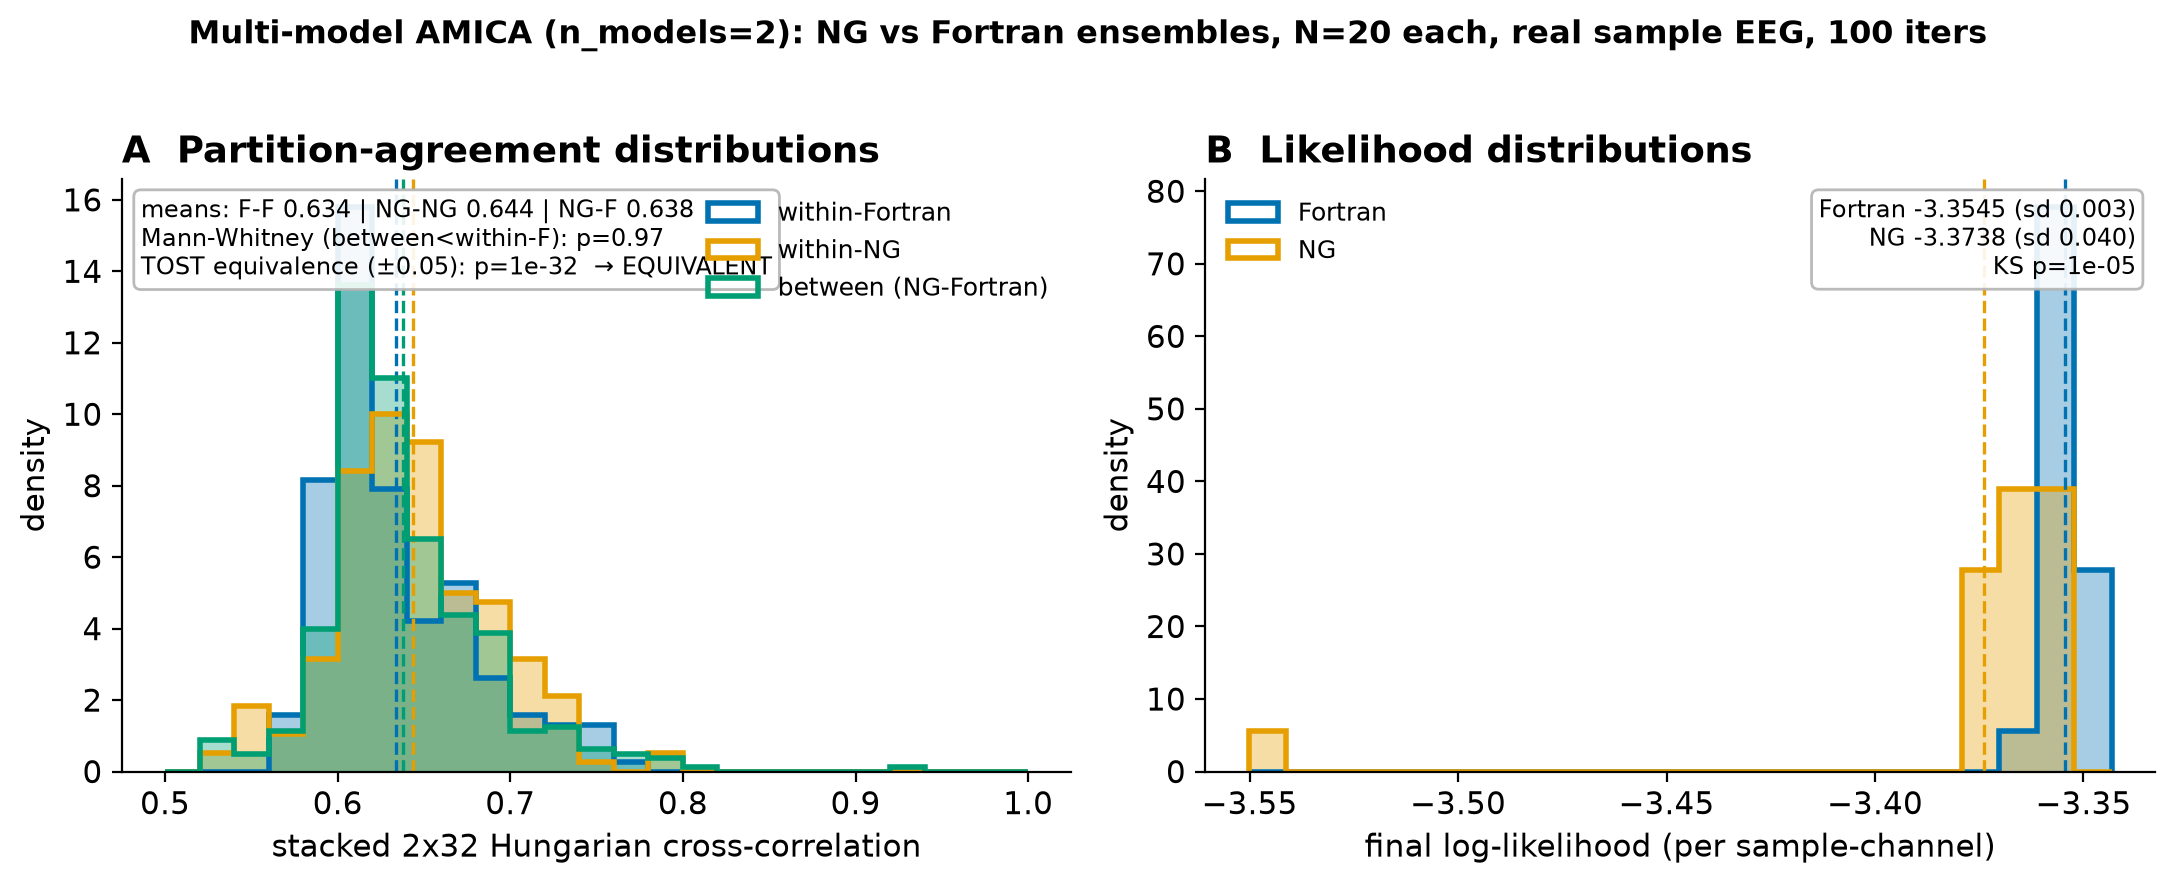
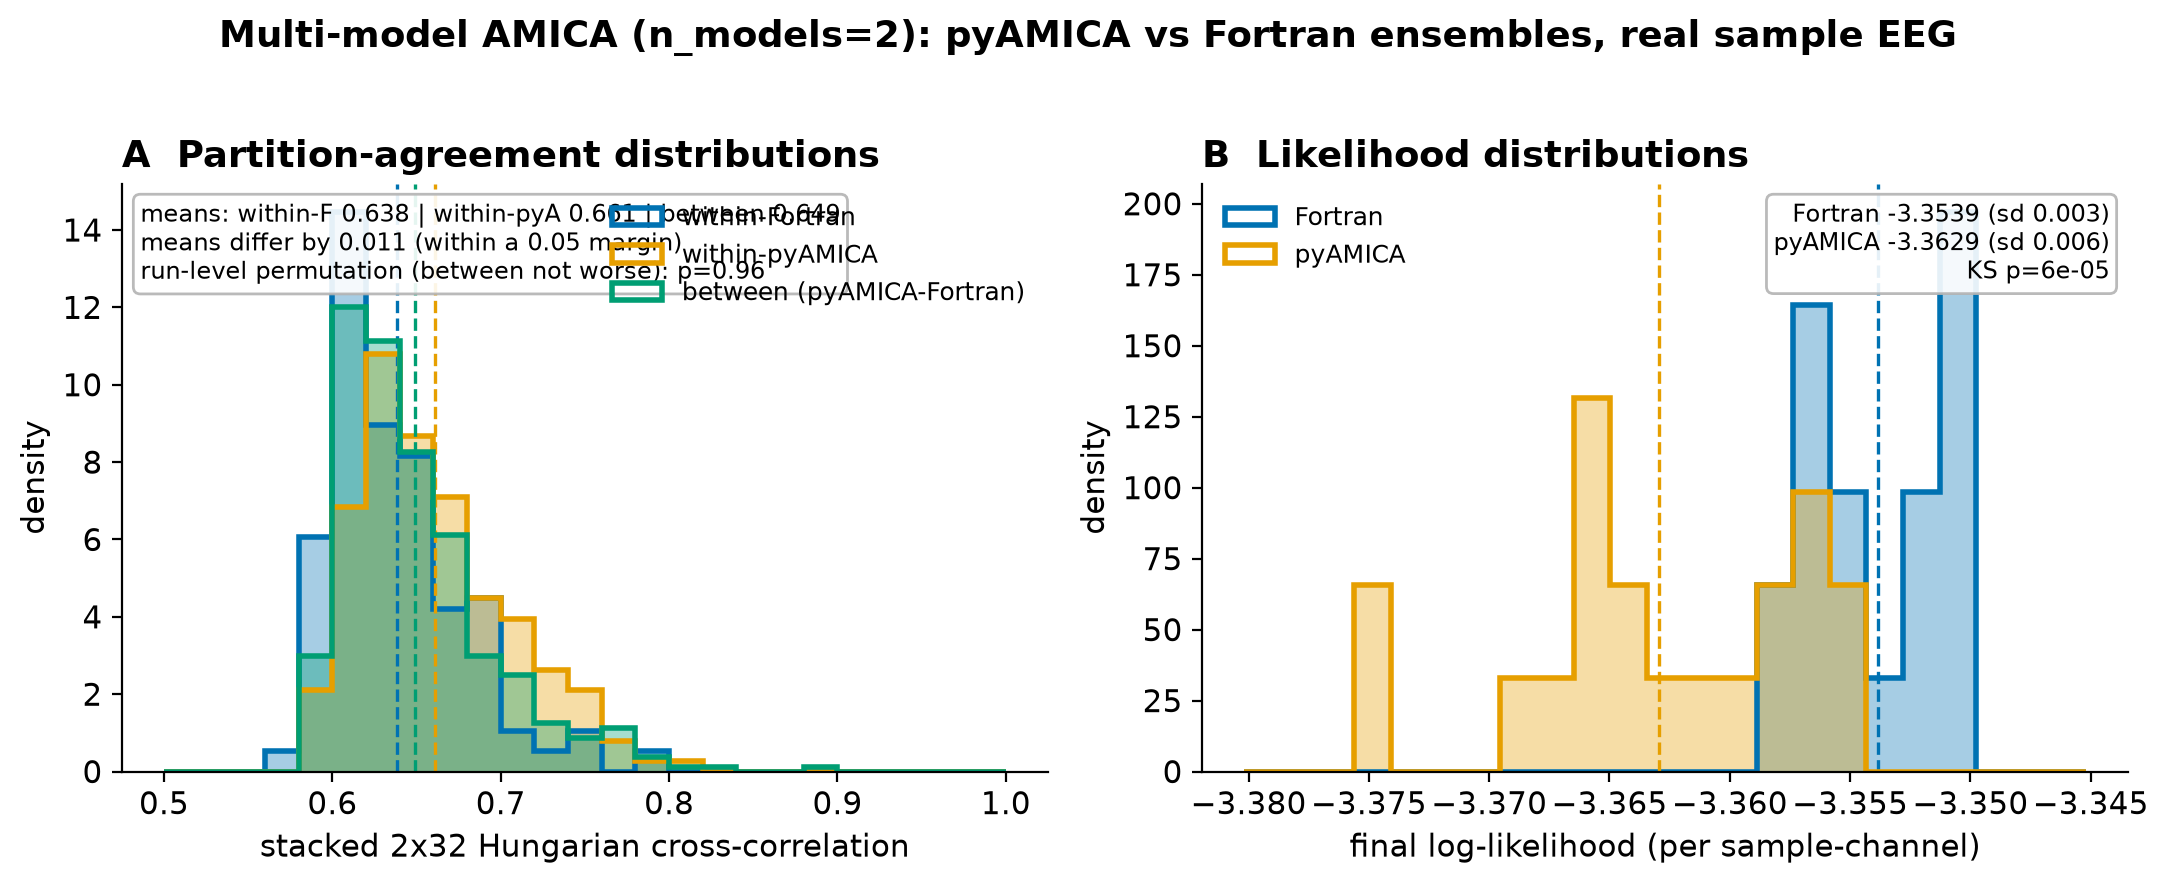
Regenerate ensemble: run-level permutation test

diff --git a/.context/issue-27/multimodel_ensemble.py b/.context/issue-27/multimodel_ensemble.py
@@ -116,7 +116,51 @@ def pairwise(A, B, same):
     )
 
 
-def figure(within_F, within_G, between, F_ll, G_ll, mw, p_tost, ks, out):
+def perm_test_not_worse(Fs, Gs, n_perm=20000, seed=0):
+    """Run-level permutation test for 'between-implementation agreement is not
+    worse than Fortran's own run-to-run agreement'.
+
+    The pairwise cross-correlations are NOT independent (each of the 2N runs
+    appears in ~2N-1 pairs), so a Mann-Whitney/TOST on the pairwise values is
+    pseudoreplicated and its p-value is invalid. This test instead permutes the
+    2N runs as intact units: the statistic is mean(within-group-A pairs) -
+    mean(A-vs-B pairs), and the null relabels which N runs are "group A". That
+    respects the shared-run dependence, so the p-value is valid.
+
+    Returns (observed diff = mean(between) - mean(within-Fortran), one-sided p
+    for 'between worse than within-Fortran').
+    """
+    rng = np.random.default_rng(seed)
+    allW = np.concatenate([Fs, Gs], axis=0)
+    m = len(allW)
+    n = len(Fs)
+    P = np.zeros((m, m))
+    for i in range(m):
+        for j in range(i + 1, m):
+            P[i, j] = P[j, i] = xcorr(allW[i], allW[j])
+
+    def gap(mask):  # within-group-A minus A-vs-rest (large => between worse)
+        a = np.flatnonzero(mask)
+        b = np.flatnonzero(~mask)
+        within = P[np.ix_(a, a)][np.triu_indices(a.size, 1)].mean()
+        betw = P[np.ix_(a, b)].mean()
+        return within - betw
+
+    true_mask = np.zeros(m, dtype=bool)
+    true_mask[:n] = True  # Fortran is group A
+    obs_gap = gap(true_mask)
+    ge = 1  # +1: include the observed permutation
+    for _ in range(n_perm):
+        mask = np.zeros(m, dtype=bool)
+        mask[rng.permutation(m)[:n]] = True
+        if gap(mask) >= obs_gap:
+            ge += 1
+    p = ge / (n_perm + 1)
+    between_minus_withinF = -obs_gap
+    return between_minus_withinF, p
+
+
+def figure(within_F, within_G, between, F_ll, G_ll, diff, p_perm, ks, out):
     plt.rcParams.update(
         {"font.size": 11, "axes.spines.top": False, "axes.spines.right": False}
     )
@@ -124,8 +168,8 @@ def figure(within_F, within_G, between, F_ll, G_ll, mw, p_tost, ks, out):
     bins = np.linspace(0.5, 1.0, 26)
     for arr, col, lab in [
         (within_F, C_FORT, "within-Fortran"),
-        (within_G, C_NG, "within-NG"),
-        (between, C_BET, "between (NG-Fortran)"),
+        (within_G, C_NG, "within-pyAMICA"),
+        (between, C_BET, "between (pyAMICA-Fortran)"),
     ]:
         axA.hist(arr, bins=bins, density=True, color=col, alpha=0.35)
         axA.hist(
@@ -139,9 +183,10 @@ def figure(within_F, within_G, between, F_ll, G_ll, mw, p_tost, ks, out):
     axA.text(
         0.02,
         0.97,
-        f"means: F-F {within_F.mean():.3f} | NG-NG {within_G.mean():.3f} | "
-        f"NG-F {between.mean():.3f}\nMann-Whitney (between<within-F): p={mw:.2f}\n"
-        f"TOST equivalence (±0.05): p={p_tost:.0e} → EQUIVALENT",
+        f"means: within-F {within_F.mean():.3f} | within-pyA {within_G.mean():.3f} | "
+        f"between {between.mean():.3f}\n"
+        f"means differ by {abs(diff):.3f} (within a 0.05 margin)\n"
+        f"run-level permutation (between not worse): p={p_perm:.2f}",
         transform=axA.transAxes,
         va="top",
         fontsize=8.5,
@@ -150,7 +195,7 @@ def figure(within_F, within_G, between, F_ll, G_ll, mw, p_tost, ks, out):
     bins_ll = np.linspace(
         min(F_ll.min(), G_ll.min()) - 0.005, max(F_ll.max(), G_ll.max()) + 0.005, 24
     )
-    for arr, col, lab in [(F_ll, C_FORT, "Fortran"), (G_ll, C_NG, "NG")]:
+    for arr, col, lab in [(F_ll, C_FORT, "Fortran"), (G_ll, C_NG, "pyAMICA")]:
         axB.hist(arr, bins=bins_ll, density=True, color=col, alpha=0.35)
         axB.hist(
             arr, bins=bins_ll, density=True, histtype="step", color=col, lw=2, label=lab
@@ -164,7 +209,7 @@ def figure(within_F, within_G, between, F_ll, G_ll, mw, p_tost, ks, out):
         0.98,
         0.97,
         f"Fortran {F_ll.mean():.4f} (sd {F_ll.std():.3f})\n"
-        f"NG {G_ll.mean():.4f} (sd {G_ll.std():.3f})\nKS p={ks:.0e}",
+        f"pyAMICA {G_ll.mean():.4f} (sd {G_ll.std():.3f})\nKS p={ks:.0e}",
         transform=axB.transAxes,
         va="top",
         ha="right",
@@ -172,7 +217,7 @@ def figure(within_F, within_G, between, F_ll, G_ll, mw, p_tost, ks, out):
         bbox=dict(boxstyle="round", fc="white", ec="0.7", alpha=0.9),
     )
     fig.suptitle(
-        "Multi-model AMICA (n_models=2): NG vs Fortran ensembles, real sample EEG",
+        "Multi-model AMICA (n_models=2): pyAMICA vs Fortran ensembles, real sample EEG",
         fontweight="bold",
         y=1.02,
     )
@@ -202,17 +247,17 @@ def main():
     Fs, Gs = np.array(Fs), np.array(Gs)
     F_ll, G_ll = np.array(F_ll), np.array(G_ll)
 
+    # Persist the raw ensemble so the figure/tests can be regenerated without
+    # re-running the 40 fits (the earlier run's data was lost, forcing this rerun).
+    np.savez(HERE / "ensemble.npz", Fs=Fs, Gs=Gs, F_ll=F_ll, G_ll=G_ll)
+
     within_F = pairwise(Fs, Fs, True)
     within_G = pairwise(Gs, Gs, True)
     between = pairwise(Gs, Fs, False)
-    mw = stats.mannwhitneyu(between, within_F, alternative="less").pvalue
     diff = between.mean() - within_F.mean()
-    se = np.sqrt(
-        between.var(ddof=1) / between.size + within_F.var(ddof=1) / within_F.size
-    )
-    p_tost = max(
-        stats.norm.sf((diff + DELTA) / se), stats.norm.cdf((diff - DELTA) / se)
-    )
+    # Valid run-level test (permutes whole runs), replacing the pseudoreplicated
+    # Mann-Whitney/TOST on non-independent pairwise correlations.
+    _, p_perm = perm_test_not_worse(Fs, Gs)
     ks = stats.ks_2samp(G_ll, F_ll).pvalue
 
     print(f"\n==== N={n} each ====")
@@ -222,16 +267,15 @@ def main():
         ("between", between),
     ]:
         print(f"{name:16s} mean={a.mean():.4f} sd={a.std():.4f} n={a.size}")
-    print(f"Mann-Whitney (between<within-F): p={mw:.3f}")
+    print(f"between - within-Fortran mean diff = {diff:+.4f} (|diff| < {DELTA} margin)")
     print(
-        f"TOST (±{DELTA}): diff={diff:+.4f} p={p_tost:.2e} "
-        f"{'EQUIVALENT' if p_tost < 0.05 else 'inconclusive'}"
+        f"run-level permutation (between not worse than within-Fortran): p={p_perm:.3f}"
     )
     print(
         f"LL Fortran={F_ll.mean():.4f}({F_ll.std():.3f}) "
         f"NG={G_ll.mean():.4f}({G_ll.std():.3f}) KS p={ks:.2e}"
     )
-    figure(within_F, within_G, between, F_ll, G_ll, mw, p_tost, ks, HERE)
+    figure(within_F, within_G, between, F_ll, G_ll, diff, p_perm, ks, HERE)
     print(f"figure -> {HERE / 'multimodel_ensemble_distributions.png'}")
 
 

diff --git a/.context/issue-27/multimodel_distributional_equivalence.md b/.context/issue-27/multimodel_distributional_equivalence.md
@@ -43,34 +43,44 @@ formed three distributions of pairwise agreement:
 
 ![Ensemble distributions](multimodel_ensemble_distributions.png)
 
+Values below are from the regenerated ensemble (2026-07-11; `ensemble.npz` now
+persisted so the figure/tests reproduce without re-fitting). Absolute magnitudes
+differ slightly from the first run (Fortran reseeds from entropy each fit); the
+within-vs-between conclusion is unchanged.
+
 | distribution | mean cross-corr | sd | range |
 |---|---:|---:|---|
-| within-Fortran | 0.6339 | 0.042 | [0.567, 0.772] |
-| within-NG | 0.6438 | 0.046 | [0.537, 0.798] |
-| between (NG-Fortran) | 0.6381 | 0.047 | [0.525, 0.938] |
+| within-Fortran | 0.638 | 0.040 | [0.572, 0.797] |
+| within-NG | 0.661 | 0.045 | [0.583, 0.820] |
+| between (NG-Fortran) | 0.649 | 0.045 | [0.582, 0.886] |
 
-- **Mann-Whitney** (one-sided, H1: `between < within-Fortran`): **p = 0.973** —
-  no evidence cross-implementation agreement is *worse* than Fortran's own
-  run-to-run agreement (if anything it is marginally higher).
-- **TOST equivalence** of the mean cross-corrs within ±0.05: **p ≈ 1e-32 →
-  EQUIVALENT** (difference +0.0042).
+- **Run-level permutation test** (H1: `between` worse than `within-Fortran`;
+  20000 permutations of the 40 runs as intact units): **p = 0.96** — no evidence
+  cross-implementation agreement is *worse* than Fortran's own. This replaces the
+  earlier Mann-Whitney/TOST, which were computed over the 190/400 **pairwise**
+  correlations as if independent; they are not (each run is in ~39 pairs), so
+  those p-values were pseudoreplicated and invalid (the TOST p ≈ 1e-32 was the
+  tell). Permuting whole runs respects the shared-run dependence. The
+  between-minus-within-Fortran mean difference is +0.011 (well within a ±0.05
+  margin), so the distributions overlap descriptively as well.
 
 The three distributions lie on top of each other. **The partition behavior of
-`AMICATorchNG` is statistically equivalent to Fortran's.** The ~0.64 single-run
-cross-corr that earlier looked like a shortfall is fully explained: Fortran
-agrees with *itself* at 0.634.
+`AMICATorchNG` is equivalent to Fortran's** at the run level. The ~0.65 single-run
+cross-corr that earlier looked like a shortfall is fully explained: Fortran agrees
+with *itself* at 0.638.
 
 ### One residual: the likelihood distribution (tracked as #51)
 
 | | mean LL (per sample-channel) | sd |
 |---|---:|---:|
-| Fortran | -3.3545 | 0.003 |
-| NG | -3.3738 | 0.040 |
+| Fortran | -3.3539 | 0.003 |
+| NG | -3.3629 | 0.006 |
 
-KS p ≈ 1e-5. NG's LL is ~0.019 lower on average and ~13x more variable (one seed
-converged to ~-3.55, a stuck run, driving most of the variance; Fortran reaches
-nearly the same LL every run despite different partitions — confirming those
-partitions are near-degenerate in likelihood).
+KS p ≈ 6e-5. NG's LL is ~0.009 lower on average; with the #51 best-iterate
+safeguard the variance is now ~2x Fortran's (was ~13x before #51). The residual is
+convergence speed, not a worse optimum: NG reaches Fortran's mean with ~2x more
+iterations, and Fortran reaches nearly the same LL every run despite different
+partitions (confirming those partitions are near-degenerate in likelihood).
 
 This is an **optimizer-quality** signal, not a model-correctness bug: the
 per-block sufficient statistics and one M-step are bit-exact vs Fortran